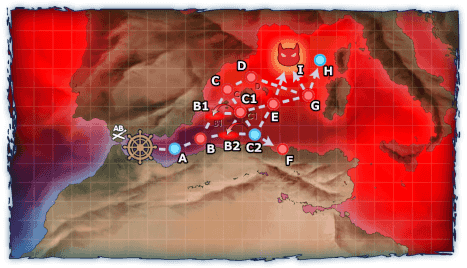
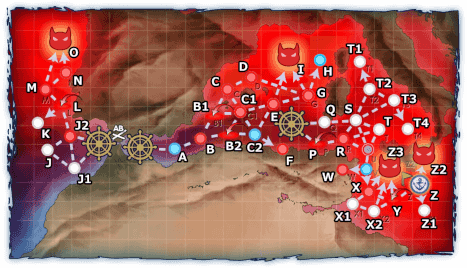
2021夏イベ対応

diff --git a/manager/index.html b/manager/index.html
@@ -266,6 +266,9 @@
 												<div class="filter_area mx-2 selected" data-area="2"><img src="../img/util/area2.png"></div>
 												<div class="filter_area mx-2 selected" data-area="3"><img src="../img/util/area3.png"></div>
 												<div class="filter_area mx-2 selected" data-area="4"><img src="../img/util/area4.png"></div>
+												<div class="filter_area mx-2 selected" data-area="5"><img src="../img/util/area5.png"></div>
+												<div class="filter_area mx-2 selected" data-area="6"><img src="../img/util/area6.png"></div>
+												<div class="filter_area mx-2 selected" data-area="7"><img src="../img/util/area7.png"></div>
 												<div class="filter_area mx-2 selected align-self-center no_area waves-effect waves-light"
 													data-area="0">
 													札なし
@@ -736,6 +739,9 @@
 						<div class="selectable_area_banner" data-area="2"><img src="../img/util/area2.png"></div>
 						<div class="selectable_area_banner" data-area="3"><img src="../img/util/area3.png"></div>
 						<div class="selectable_area_banner" data-area="4"><img src="../img/util/area4.png"></div>
+						<div class="selectable_area_banner" data-area="5"><img src="../img/util/area5.png"></div>
+						<div class="selectable_area_banner" data-area="6"><img src="../img/util/area6.png"></div>
+						<div class="selectable_area_banner" data-area="7"><img src="../img/util/area7.png"></div>
 					</div>
 				</div>
 			</div>

diff --git a/js/data.js b/js/data.js
@@ -2625,7 +2625,7 @@ const DEFAULT_PLANE_PRESET = [
 	},
 ];
 
-const MAX_AREA = 4;
+const MAX_AREA = 7;
 
 const UNKNOWN_ENEMY = [472, 475, 541, 542, 543, 544, 545, 546, 547, 548];
 const ANTIAIR_CUTIN_ENEMY = [128, 129, 130, 166, 167, 409, 410, 411, 412, 413, 414, 465, 466, 467, 468, 469, 470, 479, 480, 481, 482, 483, 484, 498, 512, 513, 514];
